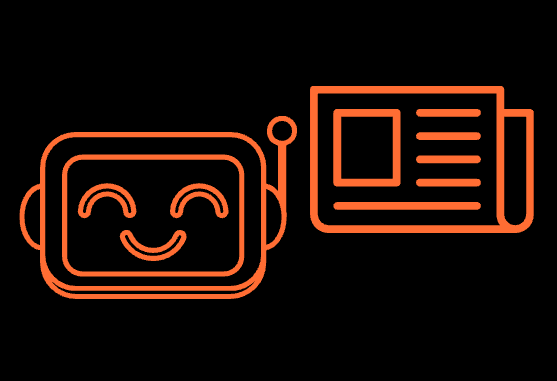
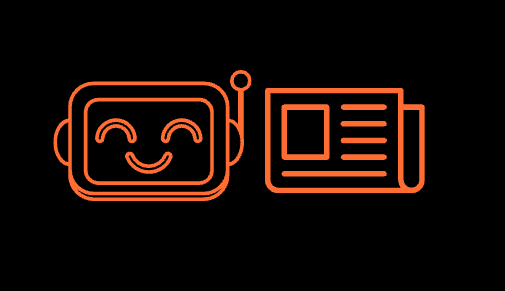
Updated animation, project images

Changed region(s): [[0.0297, 0.2165, 0.9802, 0.8041]]

diff --git a/index.html b/index.html
@@ -3,7 +3,7 @@
 <head>
     <meta charset="UTF-8">
     <meta name="viewport" content="width=device-width, initial-scale=1.0">
-    <title>huy</title>
+    <title>huey</title>
     <link rel="icon" type="image/png" href="lightDark/nest.png">
     <link rel="stylesheet" href="styles.css">
 </head>
@@ -20,10 +20,10 @@
                         <span id="typedText"></span><span class="cursor">|</span>
                     </h1>
                     <div class="lottie-container">
-                        <video src="lightDark/typingCat.webm" autoplay loop muted playsinline></video>
+                        <video src="lightDark/catSneaking.webm" autoplay loop muted playsinline></video>
                     </div>
                 </div>
-                <p class="intro-text">i'm <strong>huy</strong>, <span class="subtitle">data science student @ utd</span></p>
+                <p class="intro-text">i'm <strong>huey</strong>, <span class="subtitle">data science student @ utd</span></p>
             </div>
         </header>
 
@@ -36,39 +36,61 @@
                         <img src="images/hsc.png" alt="Ho Chi Minh Securities Corp." class="company-logo">
                         <div class="experience-text">
                             <div class="company-row">
-                                <h3>Ho Chi Minh Securities Corp.</h3>
+                                <h3><a href="https://www.hsc.com.vn/en" target="_blank" rel="noopener noreferrer">Ho Chi Minh Securities Corp.</a></h3>
                                 <span class="date">May 2025 - Aug. 2025</span>
                             </div>
-                            <p class="job-title">Software Engineer Intern</p>
+                            <p class="job-title">AI Engineer Intern</p>
                         </div>
                     </div>
                 </div>
                 <ul class="experience-bullets">
                     <li>Built GenAI support system using query classification, prompt enhancement, and <strong>Qdrant</strong> vector retrieval to serve <strong>10 DevOps engineers</strong>, reducing repetitive tickets by <strong>25%</strong> and saving <strong>2 hours daily</strong>.</li>
                     <li>Engineered end-to-end <strong>RAG pipeline</strong> with <strong>n8n</strong> workflow orchestration, integrating <strong>Qdrant</strong> similarity search and dynamic <strong>LLM</strong> routing to process <strong>200+ daily queries</strong> at <strong>85% accuracy</strong>.</li>
-                    <li>Deployed system on <strong>Kubernetes</strong> via <strong>Helm</strong> with <strong>Prometheus/Grafana</strong> monitoring and <strong>KEDA</strong> event-driven autoscaling, maintaining <strong>98% uptime</strong> under <strong>3x peak traffic</strong>.</li>
+                    <li>Collaborated with DevOps team on Kubernetes deployment with Grafana monitoring.</li>
                 </ul>
             </div>
 
             <div class="experience-item">
                 <div class="experience-header">
                     <div class="experience-left">
-                        <img src="images/utd.jpeg" alt="Gu Lab, UTD" class="company-logo">
+                        <img src="images/utd.jpeg" alt="Ganglia Guardian Lab, UTD" class="company-logo">
                         <div class="experience-text">
                             <div class="company-row">
-                                <h3>Gu Lab, UTD Department of Neuroscience</h3>
-                                <span class="date">Jan. 2025 - May 2025</span>
+                                <h3><a href="https://labs.utdallas.edu/ganglia-guardian-lab/" target="_blank" rel="noopener noreferrer">Ganglia Guardian Lab, UTD Dept. of Neuroscience</a></h3>
+                                <span class="date">Jan. 2025 – Present</span>
                             </div>
-                            <p class="job-title">Computer Science Research Assistant</p>
+                            <p class="job-title">Undergraduate Research Assistant</p>
                         </div>
                     </div>
                 </div>
-                <ul class="experience-bullets">
-                    <li>Automated multimodal data acquisition pipelines with <strong>Bonsai RX</strong>, eliminating <strong>200+ hours</strong> of manual collection with <strong>100% signal synchronization</strong>.</li>
-                </ul>
+            
+                <!-- Role 1 (older) -->
+                <!-- <div class="role-block">
+                    <div class="company-row">
+                        <span class="date">Jan. 2025 – May 2025</span>
+                    </div>
+                    <ul class="experience-bullets">
+                        <li>Automated multimodal data acquisition pipelines with <strong>Bonsai RX</strong>, eliminating <strong>200+ hours</strong> of manual collection with <strong>100% signal synchronization</strong>.</li>
+                    </ul>
+                </div> -->
+            
+                <!-- Role 2 (latest) -->
+                <div class="role-block">
+                    <div class="company-row">
+                    </div>
+                    <ul class="experience-bullets">
+                        <li>Built end-to-end behavioral analysis pipeline in Python (NumPy, scikit-learn, <a href="https://royalsocietypublishing.org/rsif/article/11/99/20140672/35465/Mapping-the-stereotyped-behaviour-of-freely-moving" target="_blank" rel="noopener noreferrer">MotionMapperPy</a>) by integrating
+                            <a href="https://github.com/paninski-lab/lightning-pose" target="_blank" rel="noopener noreferrer">Lightning Pose</a> 
+                            keypoint detection, Ensemble Kalman Smoothing across 5 camera angles, and t-SNE clustering,
+                            reducing dimensional pose data to 2D behavioral maps that revealed 13 motion patterns in Parkinson's disease mice.</li>
+                        <li>Engineered preprocessing module applying PCA, wavelet spectrograms, and 5-frame temporal
+                            subsampling to retain pose variance while eliminating positional noise, enabling reproducible cluster
+                            comparisons across MitoPark vs. control cohorts at at early and late disease timepoints.</li>
+                    </ul>
+                </div>
             </div>
 
-            <div class="experience-item">
+            <!-- <div class="experience-item">
                 <div class="experience-header">
                     <div class="experience-left">
                         <img src="images/finbudAI.jpeg" alt="FinBud AI" class="company-logo">
@@ -86,7 +108,7 @@
                     <li>Integrated <strong>TradingView Scanner API</strong> with color-coded price cards, KPI aggregations (avg market cap, top sectors), and deep-linked charts for instant analysis.</li>
                     <li>Optimized performance with <strong>1.2s debounced API calls</strong>, <strong>Redis 5-minute caching</strong>, pagination, and authenticated <strong>REST</strong> endpoints handling large result sets.</li>
                 </ul>
-            </div>
+            </div> -->
         </section>
 
         <section class="skills">
@@ -96,13 +118,6 @@
                 <img src="https://skillicons.dev/icons?i=python" alt="Python" title="Python" class="skill-item">
                 <img src="https://skillicons.dev/icons?i=cpp" alt="C++" title="C++" class="skill-item">
                 <img src="https://skillicons.dev/icons?i=r" alt="R" title="R" class="skill-item">
-                <img src="https://cdn.jsdelivr.net/gh/devicons/devicon@latest/icons/azuresqldatabase/azuresqldatabase-original.svg" alt="SQL" title="SQL" class="skill-item">
-                <img src="https://skillicons.dev/icons?i=js" alt="JavaScript" title="JavaScript" class="skill-item">
-                <img src="https://skillicons.dev/icons?i=nodejs" alt="Node" title="Node.js" class="skill-item">
-                <img src="https://skillicons.dev/icons?i=vue" alt="Vue" title="Vue" class="skill-item">
-                <img src="https://skillicons.dev/icons?i=react" alt="React" title="React" class="skill-item">
-                <img src="https://skillicons.dev/icons?i=nextjs" alt="Next" title="Next.js" class="skill-item">
-                <img src="https://skillicons.dev/icons?i=express" alt="Express" title="Express.js" class="skill-item">
                 <img src="https://skillicons.dev/icons?i=html" alt="HTML" title="HTML" class="skill-item">
                 <img src="https://skillicons.dev/icons?i=css" alt="CSS" title="CSS" class="skill-item">
             </div>
@@ -126,10 +141,8 @@
                 <img src="https://skillicons.dev/icons?i=kubernetes" alt="Kubernetes" title="Kubernetes" class="skill-item">
                 <img src="https://skillicons.dev/icons?i=postgresql" alt="PostgreSQL" title="PostgreSQL" class="skill-item">
                 <img src="https://skillicons.dev/icons?i=mongodb" alt="MongoDB" title="MongoDB" class="skill-item">
-                <img src="https://skillicons.dev/icons?i=redis" alt="Redis" title="Redis" class="skill-item">
                 <img src="techIcons/bonsai.svg" alt="Bonsai RX" title="Bonsai RX" class="skill-item">
                 <img src="techIcons/qdrant.svg" alt="Qdrant" title="Qdrant" class="skill-item">
-                <img src="techIcons/chroma.svg" alt="ChromaDB" title="ChromaDB" class="skill-item">
             </div>
         </section>
 
@@ -140,19 +153,19 @@
                     <img src="projectPic/chat.png" alt="ChatVNExpress" class="project-image">
                     <h3>ChatVNExpress</h3>
                     <p class="project-description">RAG chatbot that answers user queries and generates context-aware responses based on daily latest news.</p>
-                    <a href="https://github.com/mhuy26/VnExpress-RAG-ChatBot" target="_blank" rel="noopener noreferrer" class="github-btn">Github <img src="lightDark/githubWhite.png" alt="GitHub" class="github-icon"></a>
+                    <a href="https://github.com/mhuy26/VnExpress-RAG-ChatBot" target="_blank" rel="noopener noreferrer" class="github-btn">Github</a>
                 </div>
                 <div class="project-item">
                     <img src="projectPic/loan.png" alt="Loan Payback" class="project-image">
                     <h3>Loan Payback</h3>
-                    <p class="project-description">Built and trained a loan repayment classifier on a dataset of 300k+ entries to identify high-risk borrowers, achieving 89% accuracy and 100% recall on the high-risk class.</p>
-                    <a href="https://github.com/mhuy26/keras_loan" target="_blank" rel="noopener noreferrer" class="github-btn">Github <img src="lightDark/githubWhite.png" alt="GitHub" class="github-icon"></a>
+                    <p class="project-description">Built and trained a feedforward neural network in Keras on 300k+ loan records to classify repayment risk, achieving 89% accuracy and 100% recall on high-risk borrowers.</p>
+                    <a href="https://github.com/mhuy26/keras_loan" target="_blank" rel="noopener noreferrer" class="github-btn">Github</a>
                 </div>
             </div>
         </section>
 
         <section class="contact">
-            <h2>Contact me</h2>
+            <h2>contact me</h2>
             <div class="contact-links">
                 <span class="contact-link email-link">[email redacted]</span>
                 <span class="contact-separator">•</span>

diff --git a/styles.css b/styles.css
@@ -7,7 +7,7 @@
     --placeholder-medium: #a0a0a0;
     --toggle-bg: #333333;
     --toggle-text: #ffffff;
-    --button-bg: #333333;
+    --button-bg: #000000;
     --button-text: #ffffff;
 }
 
@@ -146,7 +146,7 @@ h1 {
     font-size: 96px;
     font-weight: normal;
     margin-bottom: 0;
-    color: #ff10f0;
+    color: #ec4f9d;
     line-height: 1.1;
 }
 
@@ -177,7 +177,7 @@ h1 {
     display: inline-block;
     animation: blink 1s infinite;
     margin-left: 2px;
-    color: #ff10f0;
+    color: #ec4f9d;
 }
 
 @keyframes blink {
@@ -214,8 +214,22 @@ h2 {
     align-items: flex-start;
     gap: 15px;
 }
+.experience-text h3 a {
+    color: inherit;
+    text-decoration: none;
+}
 
-.company-logo {
+.experience-text h3 a:hover {
+    text-decoration: underline;
+}
+.experience-bullets a {
+    color: inherit;
+    text-decoration: underline;
+}
+
+.experience-bullets a:hover {
+    text-decoration: underline;
+}.company-logo {
     width: 60px;
     height: 60px;
     border-radius: 50%;